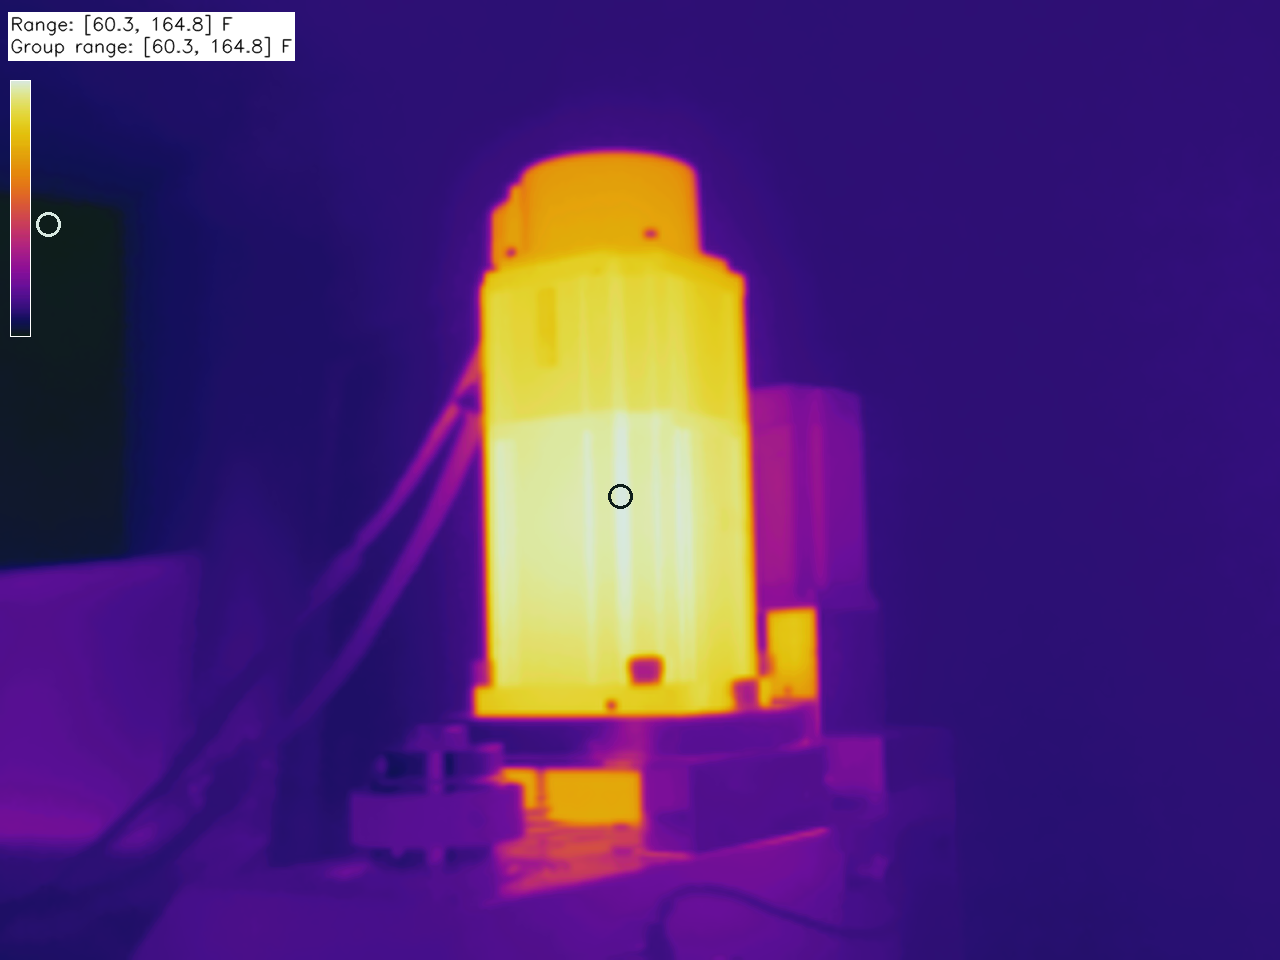
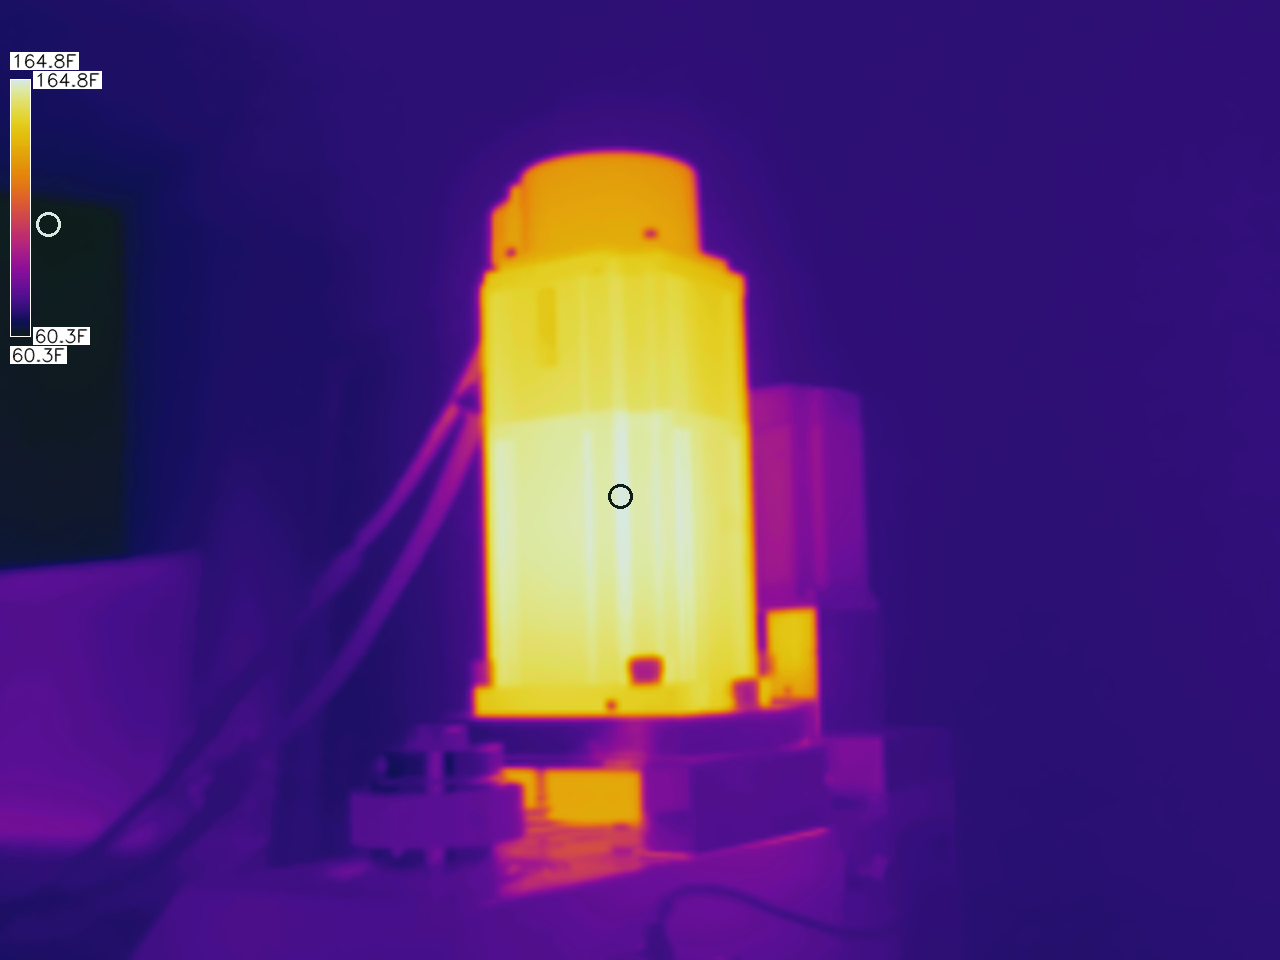
Draw legend values on palette by default

Changed region(s): [[0.0, 0.0, 0.25, 0.0938], [0.0, 0.3438, 0.0938, 0.375]]

diff --git a/process.py b/process.py
@@ -376,9 +376,47 @@ def create_image(img, mask, mn, mx, fns, palette):
 
         x1, y1 = palette_position
         x2, y2 = x1 + palette_position_size[0], y1 + palette_position_size[1]
-        img = cv2.rectangle(img, (x1, y1), (x2, y2), (255, 255, 255), 1)
+        img = cv2.rectangle(img, (x1, y1-1), (x2, y2), (255, 255, 255), 1)
 
-    if True:
+    if draw_palette_f:
+        # Draw the legend text on the palette
+
+        font = cv2.FONT_HERSHEY_SIMPLEX
+        fontScale = .6
+        color = (0, 0, 0)
+        thickness = 1
+        vals = [min_sp[2], max_sp[2], mn, mx]
+        lbls = [f'{x:.1f} F' for x in vals]
+
+        textSize = ((0,0), 0)
+        szs = []
+        for i in range(len(lbls)):
+            sz = cv2.getTextSize(lbls[i], fontFace=font, fontScale=fontScale, thickness=thickness)
+            szs += [sz]
+            textSize = ((max(textSize[0][0], sz[0][0]), max(textSize[0][1], sz[0][1])), max(textSize[1], sz[1]))
+
+        s = 1
+        os = 4
+
+        for i, (lbl, sz, val) in enumerate(zip(lbls, szs, vals)):
+            if i == 2:
+                x, y = palette_position[0] + 1, palette_position[1] + palette_position_size[1] + sz[0][1] + os + textSize[0][1]/2 + 0
+            elif i == 3:
+                x, y = palette_position[0] + 1, palette_position[1] - os - textSize[0][1]/2 - 2
+            elif i == 0: # and (abs(vals[0] - vals[2]) > .001):
+                v = 1 - (val - mn) / (mx - mn)
+                x, y = palette_position[0] + palette_position_size[0] + os, palette_position[1] + sz[0][1] / 2 + palette_position_size[1] * v - 1
+            elif i == 1: # and (abs(vals[1] - vals[3]) > .001):
+                v = 1 - (val - mn) / (mx - mn)
+                x, y = palette_position[0] + palette_position_size[0] + os, palette_position[1] + sz[0][1] / 2 + palette_position_size[1] * v - 1
+            else:
+                continue
+
+            x, y = int(round(x)), int(round(y))
+
+            img = cv2.rectangle(img, (x - s, y - s - sz[0][1]), (x + sz[0][0] + s, y + s + 1), (255, 255, 255), -1)
+            img = cv2.putText(img, lbl, (x,y), font, fontScale, color, thickness, cv2.LINE_AA)
+    else:
         # Draw the legend text
 
         font = cv2.FONT_HERSHEY_SIMPLEX
